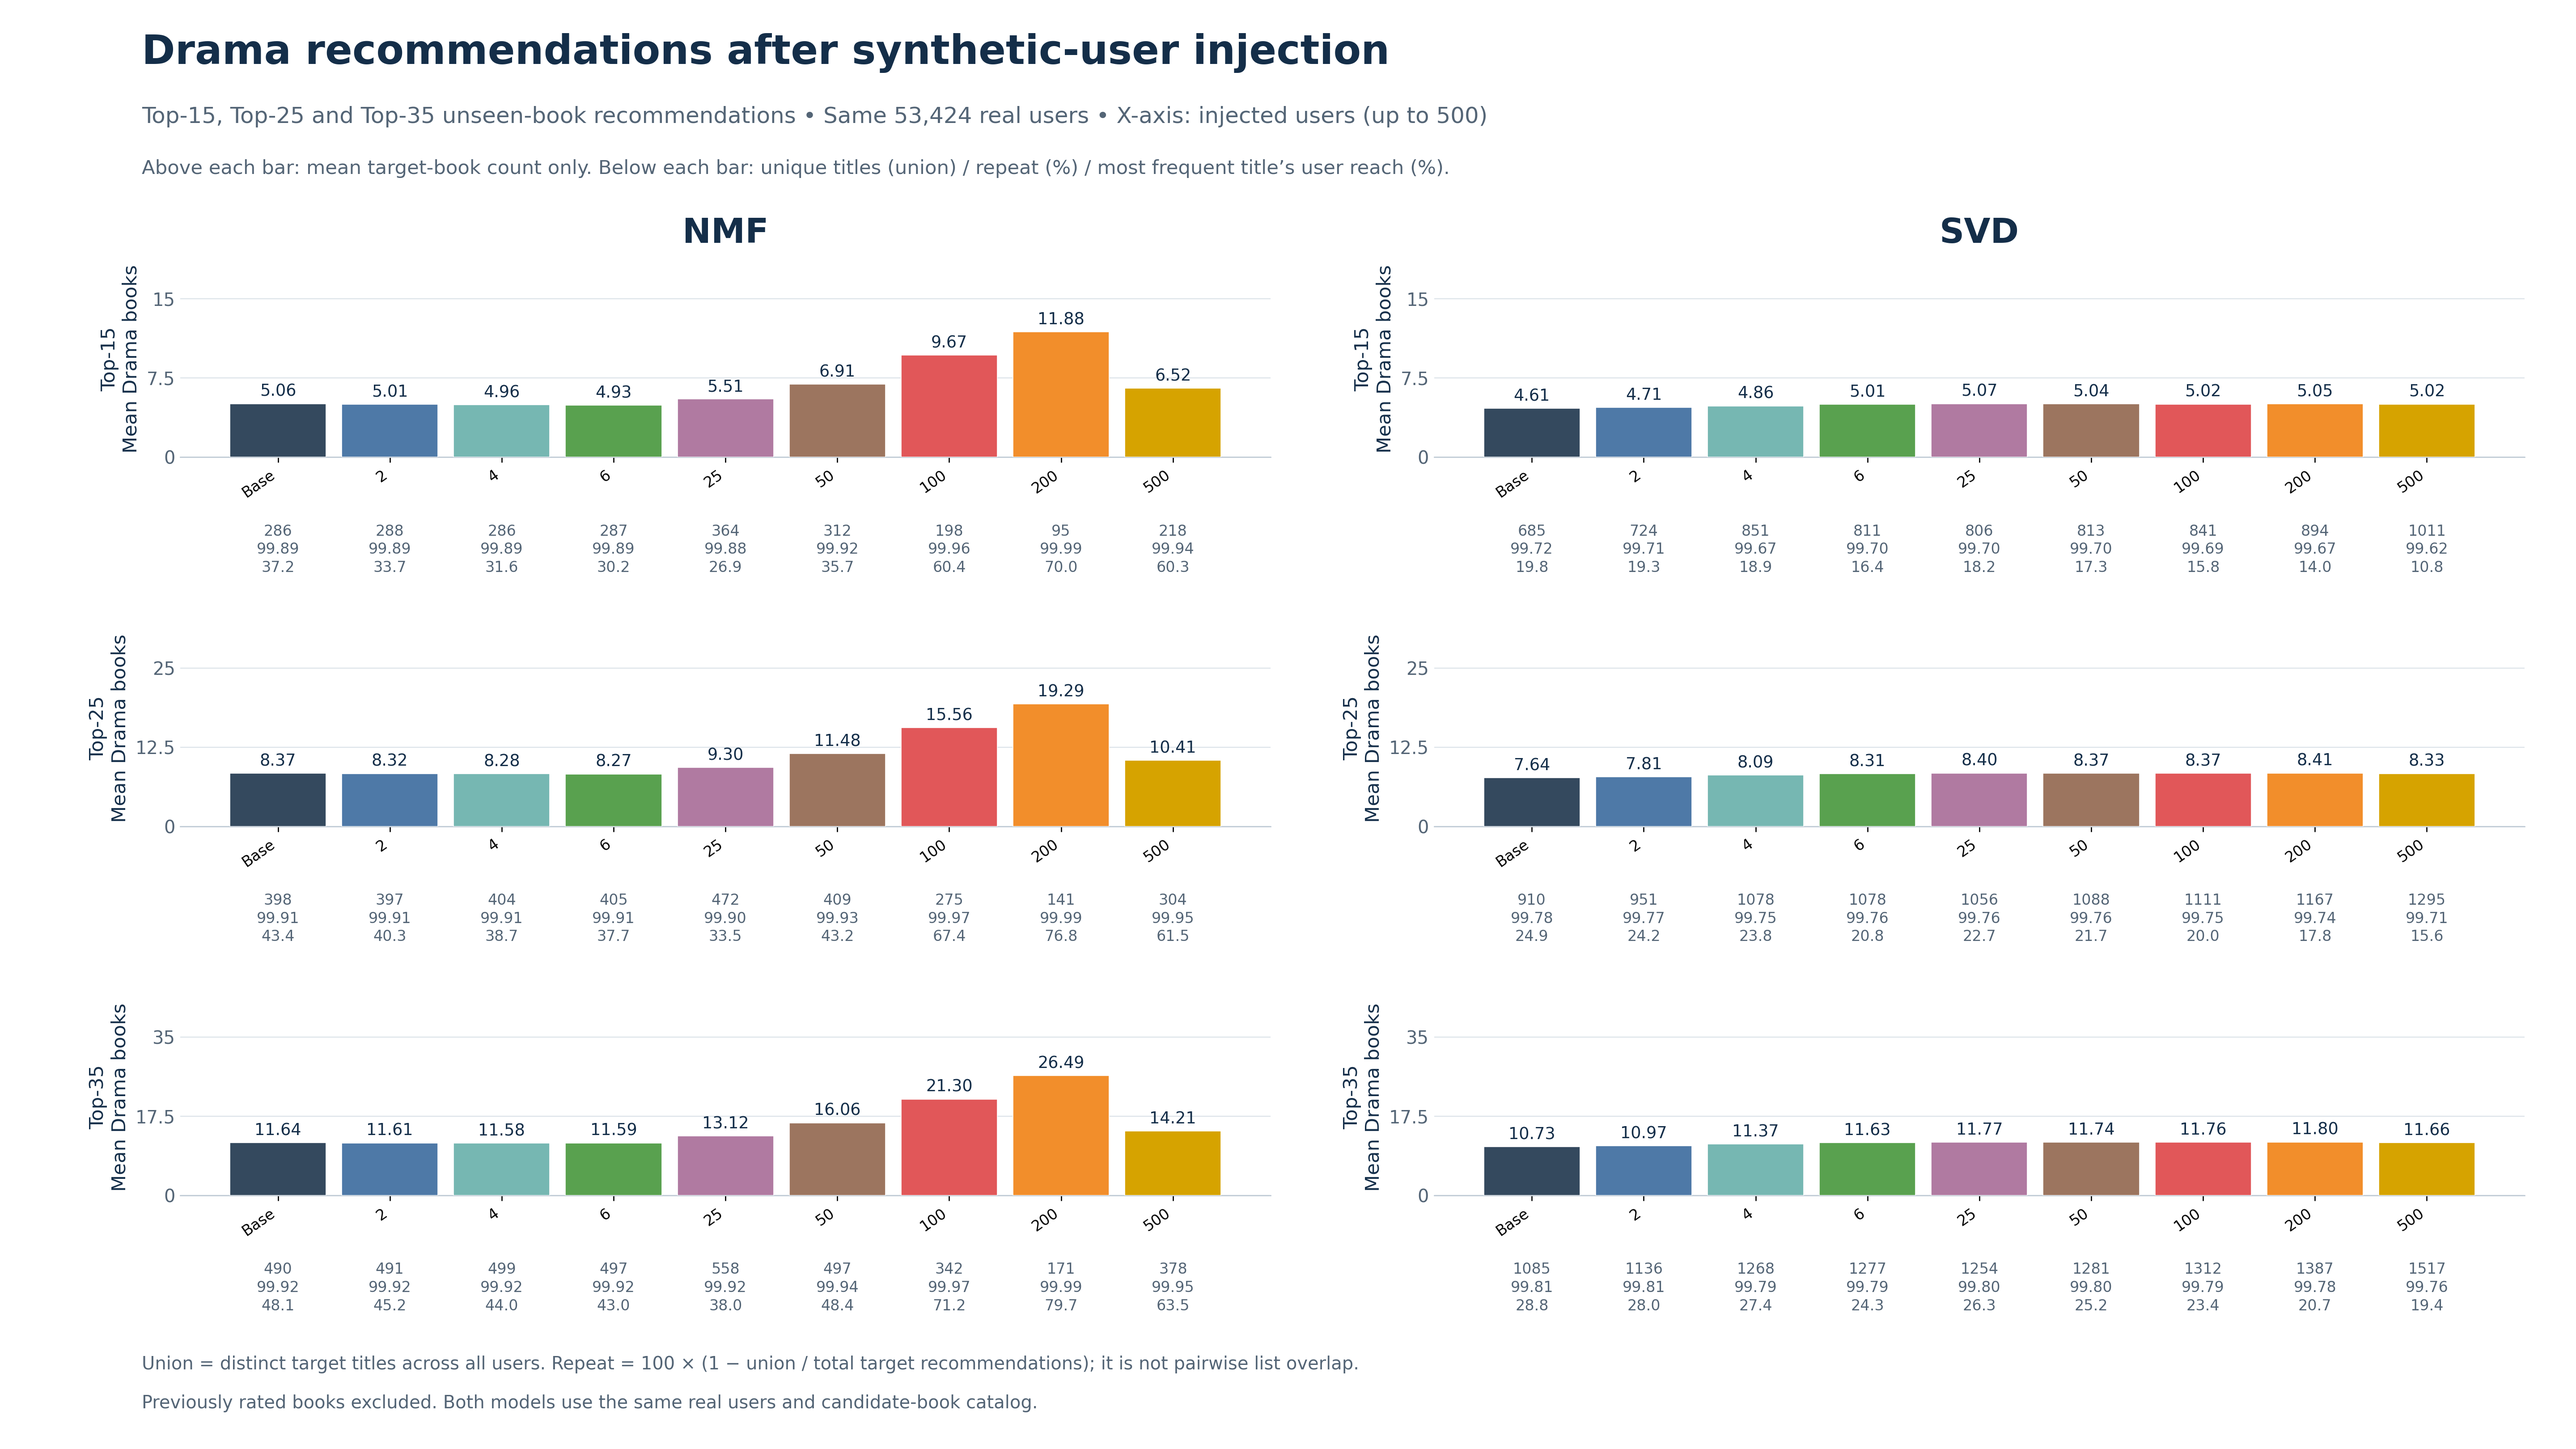
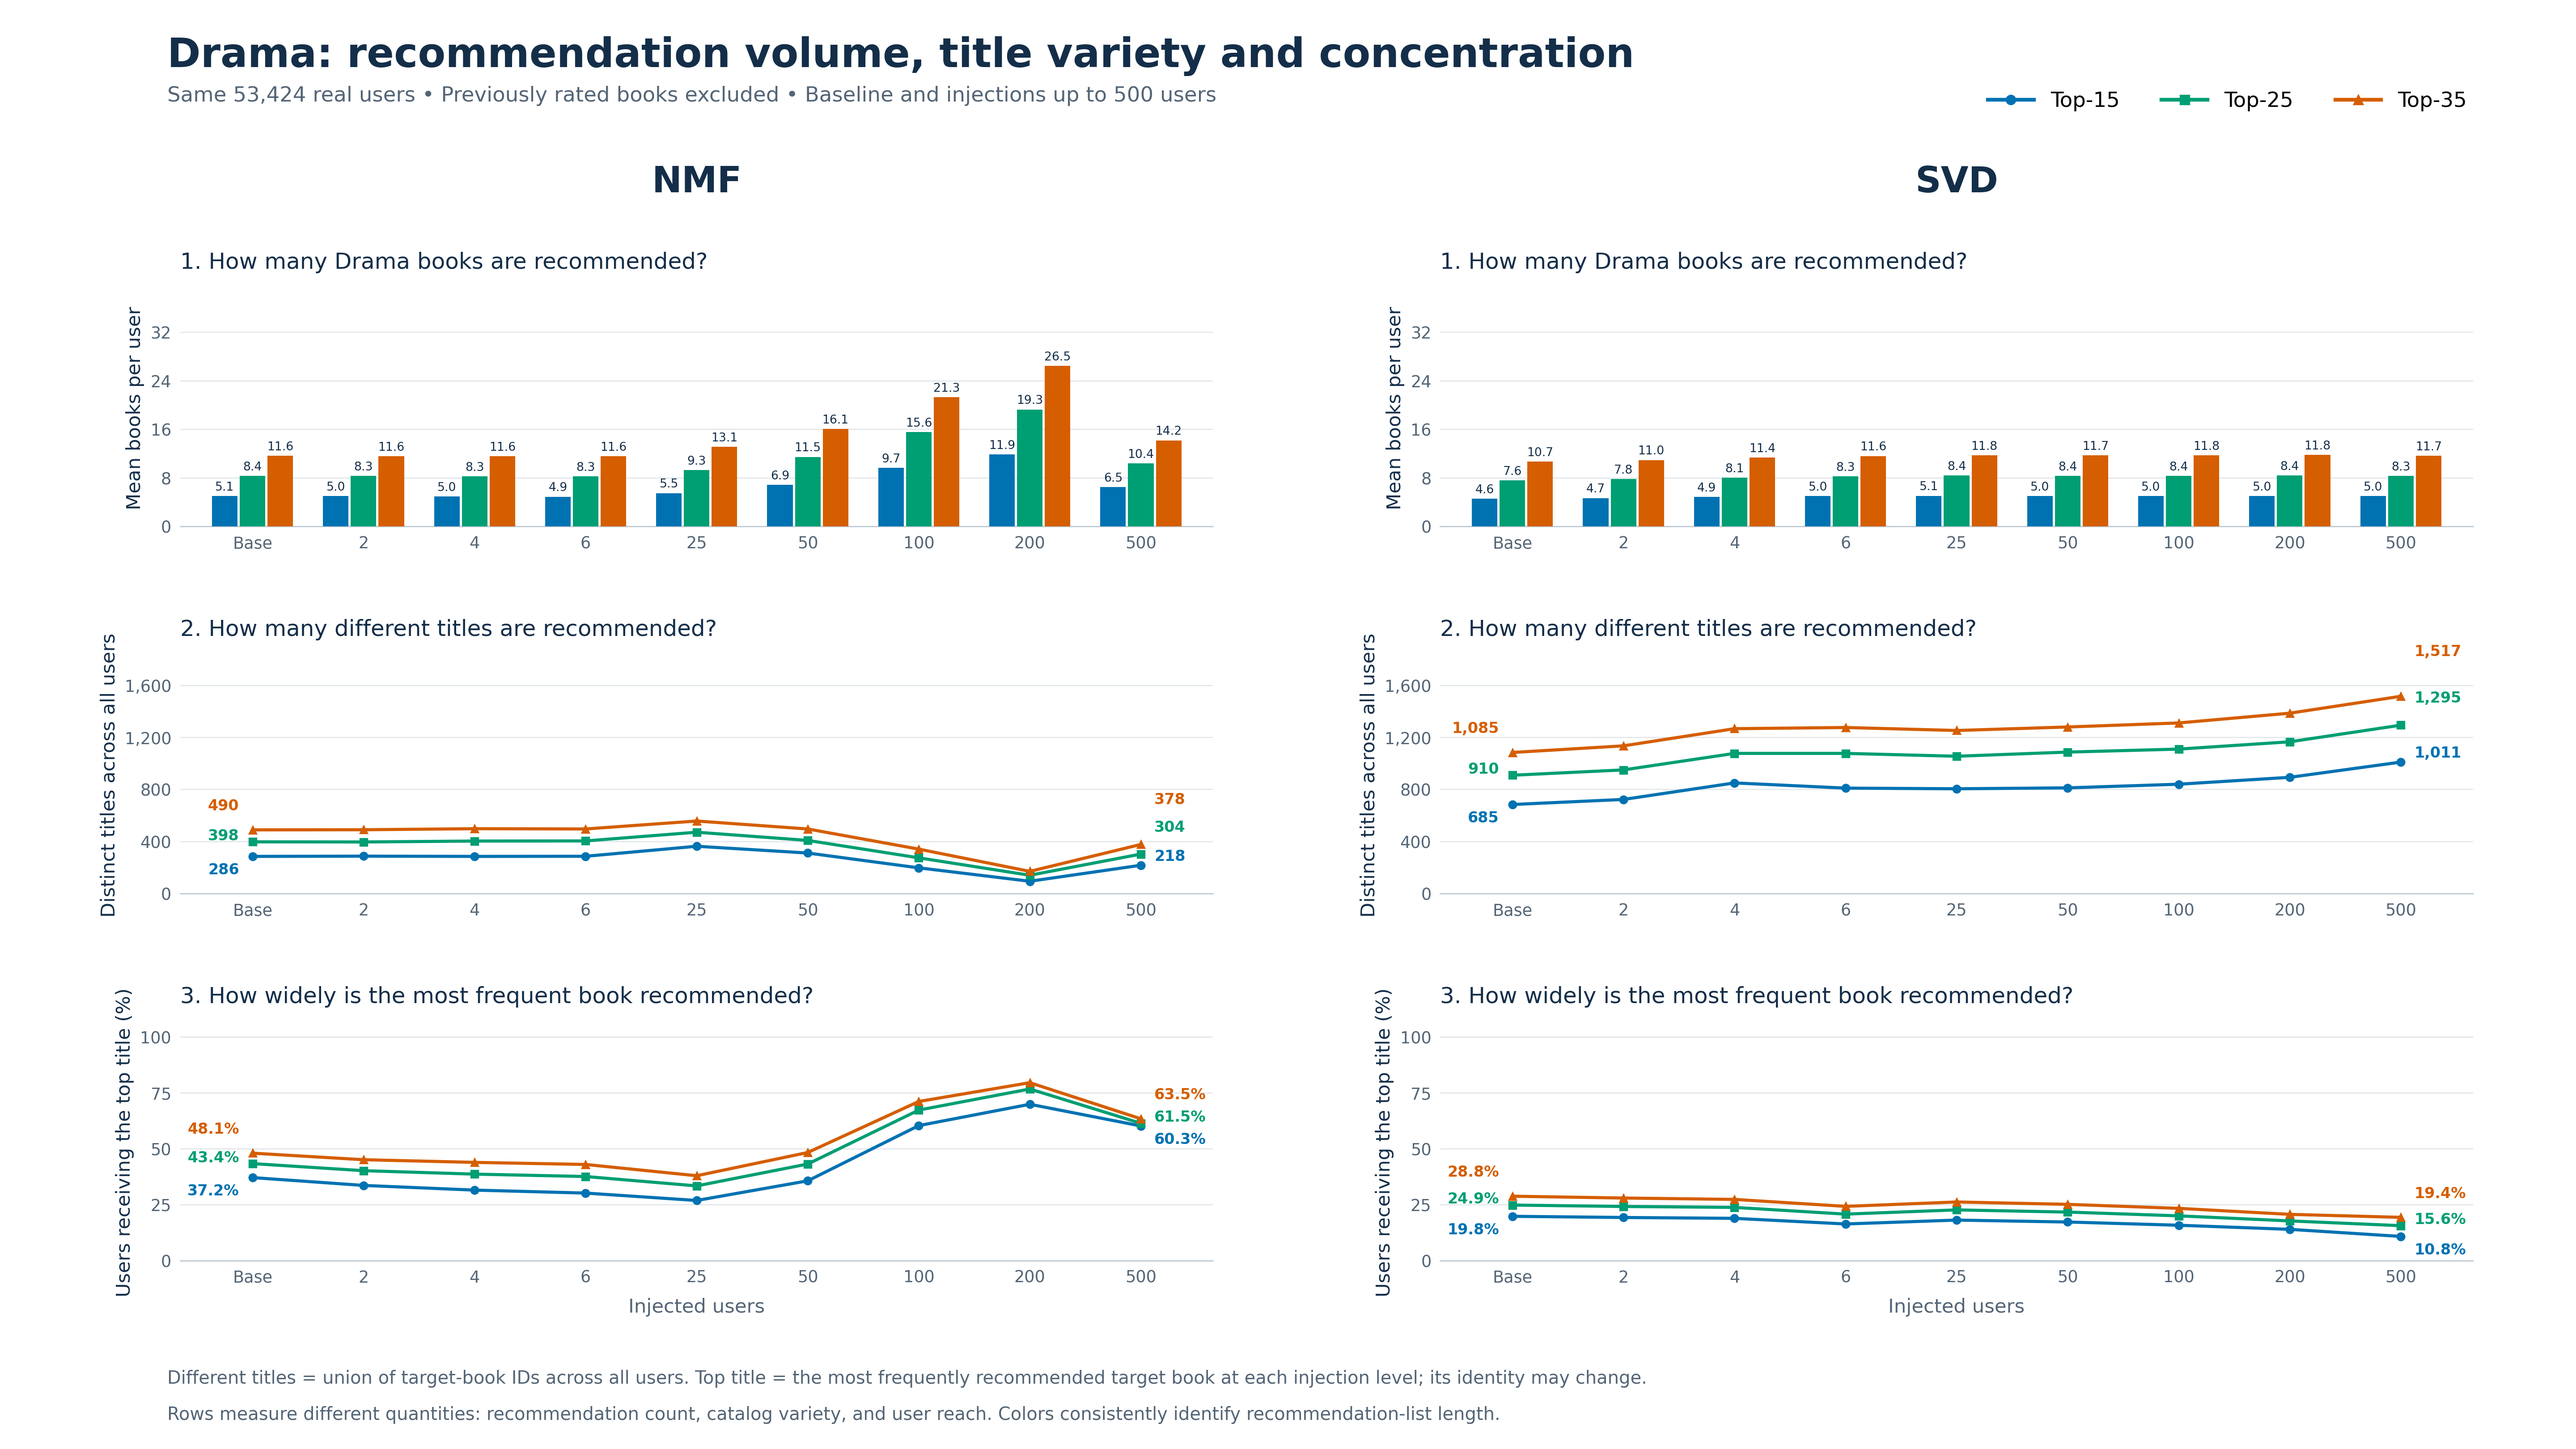
Separate recommendation volume, title variety and top-title reach into readable panels

diff --git a/Book/current/PerturbRec/svd_nmf/layer1/notebook/plot_topk_target_union.py b/Book/current/PerturbRec/svd_nmf/layer1/notebook/plot_topk_target_union.py
@@ -1,37 +1,54 @@
-"""Two models, three list lengths; bar labels show mean counts only."""
+"""Three aligned metrics per model; keep K=15/25/35 and remove repeat-rate clutter."""
 from pathlib import Path
 import json
 import numpy as np,pandas as pd
 import matplotlib
 matplotlib.use('Agg')
 import matplotlib.pyplot as plt
-L=Path('/home/moshtasa/Research/phd-recsys/Book/current/PerturbRec/svd_nmf/layer1')
-d=pd.read_csv(L/'tables/topk_target_union/summary.csv');assert len(d)==156
-d=d[d.n_fake<=500].copy();assert len(d)==108
-COUNTS=[0,2,4,6,25,50,100,200,500];KS=[15,25,35]
-navy='#142E49';muted='#546576';colors=['#34495E','#4E79A7','#76B7B2','#59A14F','#B07AA1','#9C755F','#E15759','#F28E2B','#D6A300','#2A9DAB','#A0CBE8','#FF9DA7','#8064A2']
-plt.rcParams.update({'font.family':'DejaVu Sans','font.size':12,'axes.spines.top':False,'axes.spines.right':False})
-for genre in ['Thriller','Drama']:
- fig,axs=plt.subplots(3,2,figsize=(24,13.5))
- for ri,k in enumerate(KS):
-  for ci,model in enumerate(['nmf','svd']):
-   ax=axs[ri,ci];z=d[(d.model==model)&(d.genre==genre)&(d.k==k)].sort_values('n_fake');assert z.n_fake.tolist()==COUNTS
-   bars=ax.bar(np.arange(len(COUNTS)),z.mean_target_count,width=.86,color=colors[:len(COUNTS)],edgecolor='white',linewidth=.5,zorder=3)
-   for j,(b,r) in enumerate(zip(bars,z.itertuples())):
-    if not r.nmf_nonnegative_constraint_ok:b.set_hatch('///');b.set_edgecolor(navy)
-    ax.text(j,r.mean_target_count+k*.025,f'{r.mean_target_count:.2f}',ha='center',va='bottom',fontsize=11,color=navy)
-    ax.text(j,-.34,f'{r.union_distinct_target_titles}\n{r.union_repeat_percent:.2f}\n{r.most_frequent_book_user_reach_percent:.1f}',transform=ax.get_xaxis_transform(),ha='center',va='top',fontsize=10,color=muted,linespacing=1.3,clip_on=False)
-   ax.set_ylim(0,k*1.24);ax.set_yticks([0,k/2,k],[str(0),f'{k/2:g}',str(k)]);ax.set_xticks(range(len(COUNTS)),['Base']+[str(n) for n in COUNTS[1:]],rotation=35,ha='right',fontsize=10)
-   ax.set_ylabel(f'Top-{k}\nMean {genre} books',fontsize=13,color=navy)
-   if ri==0:ax.set_title(model.upper(),fontsize=23,fontweight='bold',color=navy,pad=12)
-   ax.grid(axis='y',color='#DCE3E9',linewidth=.7,zorder=0);ax.spines['left'].set_visible(False);ax.spines['bottom'].set_color('#C0CBD5');ax.tick_params(axis='y',length=0,colors=muted)
- fig.subplots_adjust(left=.07,right=.98,top=.82,bottom=.175,wspace=.15,hspace=.88)
- fig.text(.055,.956,f'{genre} recommendations after synthetic-user injection',fontsize=27,fontweight='bold',color=navy)
- fig.text(.055,.915,'Top-15, Top-25 and Top-35 unseen-book recommendations • Same 53,424 real users • X-axis: injected users (up to 500)',fontsize=15,color=muted)
- fig.text(.055,.88,'Above each bar: mean target-book count only. Below each bar: unique titles (union) / repeat (%) / most frequent title’s user reach (%).',fontsize=13,color=muted)
- fig.text(.055,.055,'Union = distinct target titles across all users. Repeat = 100 × (1 − union / total target recommendations); it is not pairwise list overlap.',fontsize=12,color=muted)
- fig.text(.055,.028,'Previously rated books excluded. Both models use the same real users and candidate-book catalog.',fontsize=12,color=muted)
- out=R/'layer2/final_results'/f'comparision - {genre}_top35_union_powerpoint.png';fig.savefig(out,dpi=240,facecolor='white');plt.close(fig);print(out)
+from matplotlib.lines import Line2D
+from matplotlib.ticker import MaxNLocator,StrMethodFormatter
+R=Path('/home/moshtasa/Research/phd-recsys/Book/current/PerturbRec/svd_nmf');L=R/'layer1'
+d=pd.read_csv(L/'tables/topk_target_union/summary.csv');d=d[d.n_fake<=500].copy();assert len(d)==108
+COUNTS=[0,2,4,6,25,50,100,200,500];KS=[15,25,35];COLORS=['#0072B2','#009E73','#D55E00'];MARKERS=['o','s','^'];NAVY='#142E49';MUTED='#546576'
+plt.rcParams.update({'font.family':'DejaVu Sans','font.size':13,'axes.spines.top':False,'axes.spines.right':False,'axes.spines.left':False,'figure.facecolor':'white','savefig.facecolor':'white'})
 assert np.allclose(d.target_share_percent,d.mean_target_count/d.k*100)
-assert np.allclose(d.union_repeat_percent,100*(1-d.union_distinct_target_titles/d.total_target_recommendation_slots))
-(L/'log/topk_target_union_validation.json').write_text(json.dumps({'rows':len(d),'max_injected_users':500,'displayed_injection_counts':COUNTS,'k_values':KS,'n_real_users':53424,'top35_exactly_matches_previous_results':True,'top15_matches_available_reference':True,'arithmetic_checked':True,'bar_labels':'mean target count only','negative_factor_checkpoints':d[~d.nmf_nonnegative_constraint_ok][['model','genre','n_fake']].drop_duplicates().to_dict('records')},indent=2))
+assert np.allclose(d.most_frequent_book_user_reach_percent,100*d.most_frequent_book_users/d.n_users)
+assert d.union_distinct_target_titles.gt(0).all()
+for genre in ['Thriller','Drama']:
+ fig,axs=plt.subplots(3,2,figsize=(24,13.5),sharex=True)
+ data=d[d.genre==genre];umax=float(data.union_distinct_target_titles.max())*1.20
+ for ci,model in enumerate(['nmf','svd']):
+  for ri,(key,title,ylabel) in enumerate([
+   ('mean_target_count',f'1. How many {genre} books are recommended?','Mean books per user'),
+   ('union_distinct_target_titles','2. How many different titles are recommended?','Distinct titles across all users'),
+   ('most_frequent_book_user_reach_percent','3. How widely is the most frequent book recommended?','Users receiving the top title (%)')]):
+   ax=axs[ri,ci];x=np.arange(len(COUNTS))
+   for ki,(k,col,marker) in enumerate(zip(KS,COLORS,MARKERS)):
+    z=data[(data.model==model)&(data.k==k)].sort_values('n_fake');assert z.n_fake.tolist()==COUNTS;v=z[key].to_numpy()
+    if ri==0:
+     xx=x+(ki-1)*.25;bars=ax.bar(xx,v,width=.23,color=col,zorder=3)
+     for j,(bar,row) in enumerate(zip(bars,z.itertuples())):
+      if not row.nmf_nonnegative_constraint_ok:bar.set_hatch('///');bar.set_edgecolor(NAVY)
+      ax.text(xx[j],v[j]+.45,f'{v[j]:.1f}',ha='center',va='bottom',fontsize=8,color=NAVY)
+    else:
+     ax.plot(x,v,color=col,marker=marker,ms=5,lw=2.1,zorder=3)
+     # Endpoint values show the starting and final states without dense number rows.
+     for j in [0,len(x)-1]:
+      offset=([3,15,27][ki] if ri==1 and j==len(x)-1 else [-12,1,13][ki])
+      ax.annotate(f'{v[j]:,.0f}' if ri==1 else f'{v[j]:.1f}%',(x[j],v[j]),xytext=(-9 if j==0 else 9,offset),textcoords='offset points',ha='right' if j==0 else 'left',fontsize=10,color=col,fontweight='bold',clip_on=False)
+   ax.set_title(title,loc='left',fontsize=15,pad=14,color=NAVY);ax.set_ylabel(ylabel,fontsize=13,color=NAVY)
+   ax.set_ylim(0,39 if ri==0 else umax if ri==1 else 106);ax.set_xlim(-.65,8.65)
+   ax.set_xticks(x,['Base']+[str(n) for n in COUNTS[1:]]);ax.tick_params(axis='both',length=0,colors=MUTED,labelbottom=True,pad=6,labelsize=11)
+   ax.grid(axis='y',color='#DFE5E9',lw=.7);ax.set_axisbelow(True);ax.spines['bottom'].set_color('#BECAD3')
+   ax.yaxis.set_major_locator(MaxNLocator(nbins=5,integer=True));ax.yaxis.set_major_formatter(StrMethodFormatter('{x:,.0f}'))
+   if ri==2:ax.set_xlabel('Injected users',labelpad=8,fontsize=13,color=MUTED)
+  axs[0,ci].text(.5,1.38,model.upper(),transform=axs[0,ci].transAxes,ha='center',va='bottom',fontsize=24,fontweight='bold',color=NAVY)
+ fig.suptitle(f'{genre}: recommendation volume, title variety and concentration',x=.065,ha='left',y=.975,fontsize=27,fontweight='bold',color=NAVY)
+ fig.text(.065,.93,'Same 53,424 real users • Previously rated books excluded • Baseline and injections up to 500 users',fontsize=14,color=MUTED)
+ handles=[Line2D([0],[0],color=c,marker=m,lw=2.5,label=f'Top-{k}') for k,c,m in zip(KS,COLORS,MARKERS)]
+ fig.legend(handles=handles,loc='upper right',bbox_to_anchor=(.965,.95),ncol=3,frameon=False,fontsize=14,handlelength=2.2,columnspacing=2)
+ fig.subplots_adjust(left=.07,right=.96,top=.80,bottom=.13,hspace=.55,wspace=.22)
+ fig.text(.065,.045,'Different titles = union of target-book IDs across all users. Top title = the most frequently recommended target book at each injection level; its identity may change.',fontsize=12,color=MUTED)
+ fig.text(.065,.02,'Rows measure different quantities: recommendation count, catalog variety, and user reach. Colors consistently identify recommendation-list length.',fontsize=12,color=MUTED)
+ out=R/'layer2/final_results'/f'comparision - {genre}_top35_union_powerpoint.png';fig.savefig(out,dpi=240);preview=L/'log'/f'{genre}_union_preview.png';fig.savefig(preview,dpi=90);plt.close(fig);print(out,flush=True)
+(L/'log/topk_target_union_validation.json').write_text(json.dumps({'rows':len(d),'max_injected_users':500,'displayed_injection_counts':COUNTS,'k_values':KS,'n_real_users':53424,'three_metrics':['mean_target_count','union_distinct_target_titles','most_frequent_book_user_reach_percent'],'repeat_rate_removed_from_figure':True,'no_recomputation_of_recommendations':True,'existing_values_preserved':True,'top_title_user_reach_arithmetic_checked':True,'negative_factor_checkpoints':d[~d.nmf_nonnegative_constraint_ok][['model','genre','n_fake']].drop_duplicates().to_dict('records')},indent=2))
